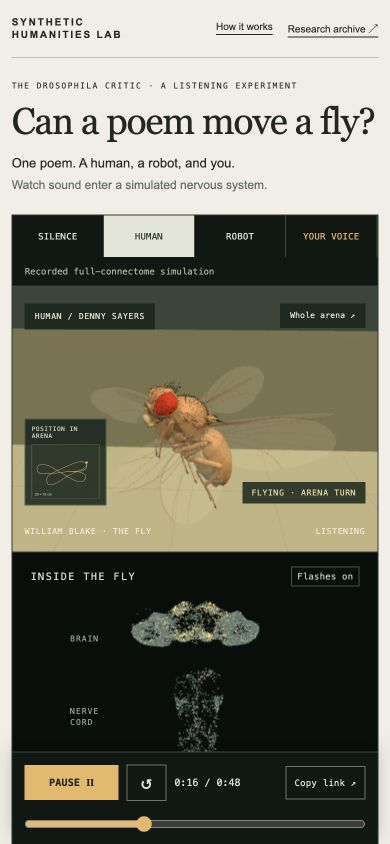
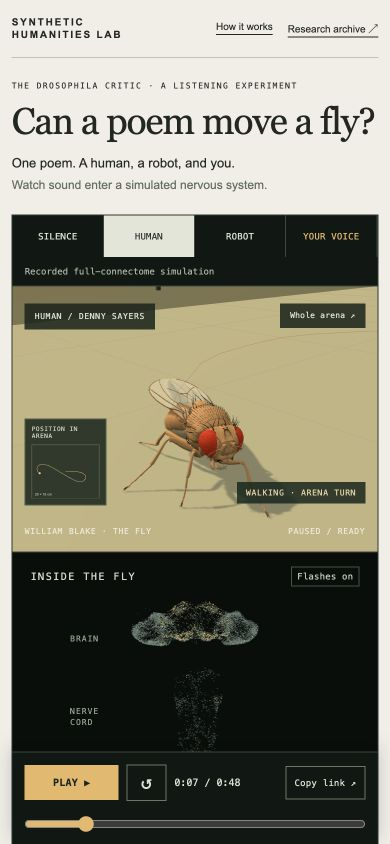
Record deployed arena and local visitor verification

diff --git a/docs/MOVING-ARENA-STATUS.md b/docs/MOVING-ARENA-STATUS.md
@@ -1,8 +1,7 @@
 # Moving listening arena — implementation status
 
-Implementation and local checks are complete. Public deployment verification is
-the remaining release step. This supersedes the stationary-body scope of the
-previous finalization release.
+The moving-arena release is implemented, published, and browser-verified on
+3 October 2026. This supersedes the stationary-body scope of the previous release.
 
 Accepted scope: walking, turning, takeoff, flight, and landing; a bounded
 listening arena; a disclosed neural-to-command adapter; movement during
@@ -20,7 +19,7 @@ processing within five minutes for 60 seconds of audio on a tested desktop.
 - [x] Visitor body simulation, cancellation, runtime/memory measurement.
 - [x] Playback/seek, desktop/mobile, accessibility, missing-asset checks.
 - [x] Existing neural/receiver/privacy regression checks.
-- [ ] Published site inspected, with before/after captures.
+- [x] Published site inspected, with before/after captures.
 
 No prerecorded visitor substitution, no semantic analysis, no trained readout,
 and no changes to the frozen connectome or auditory receiver are authorized.
@@ -28,3 +27,26 @@ An unresolved controller or runtime requirement must remain marked unfinished.
 
 Evidence, numerical tolerances, hardware limits and actual captures are in
 [MOVING-ARENA-QA.md](MOVING-ARENA-QA.md).
+
+## Deployment
+
+Implementation commit: `12d28fbf21c688f7ad47dfed70ac706bf7274078`.
+[Successful GitHub Pages deployment](https://github.com/Synthetic-Humanities-Lab/drosophila-critic/actions/runs/37108456240).
+
+The live site was checked through full human, robot and silence playback,
+corresponding stanza switches, saved-pose seeking, reduced motion, and the
+controller-proof page. A fresh visitor processing run of the public robot
+example finished in 137.38 seconds, including its own silence and both body
+trajectories, then replayed fully to 29.28 seconds.
+[Visitor evidence](../experiments/body-controller-v2/deployed-visitor.json).
+The curated page's observed assets included no connectivity, policy weights or
+physics runtime: [resource inventory](../experiments/body-controller-v2/deployed-replay-assets.json).
+
+The runtime acceptance measurements apply to the tested desktop. Phone processing,
+other desktop/browser qualification, and browser-wide peak memory measurement
+remain outside the demonstrated coverage. The body coupling remains an explicit
+engineering model, not physiological validation.
+
+One additional live-site file-picker retest (the public human WAV) was blocked
+by browser approval review reporting declined permission. No workaround was
+attempted. The deployed built-in robot-example visitor flow passed separately.

diff --git a/docs/MOVING-ARENA-QA.md b/docs/MOVING-ARENA-QA.md
@@ -156,4 +156,19 @@ The scene recordings capture the rendered animal and neural canvases with time
 and state captions; they are not browser-chrome recordings. Screenshots document
 the surrounding interface.
 
-Deployment verification is recorded in [release status](MOVING-ARENA-STATUS.md).
+The published visitor flow also passed using the complete public robot example:
+2.68 seconds loading, 26.78 seconds for the neural pair and 107.81 seconds for the
+body pair; **137.38 seconds total**. Its fresh body trajectories replayed through
+the post-sound interval. [Deployed visitor evidence](../experiments/body-controller-v2/deployed-visitor.json).
+
+The deployed curated page's [resource inventory](../experiments/body-controller-v2/deployed-replay-assets.json)
+contains saved poses and anatomy but no processing models. Full human, robot,
+silence and visitor playback, passage switching, the controller proof and
+reduced-motion controls were checked on the published site.
+Deployment details are in [release status](MOVING-ARENA-STATUS.md).
+
+An additional live-site file-picker test with the public human WAV was blocked
+by browser approval review, which reported declined permission. It was stopped,
+without an alternate upload route. The built-in public robot-example visitor
+flow passed on the deployed site; the local processing benchmarks and file/codec
+unit checks do not substitute for this uncompleted live-site file-picker test.
